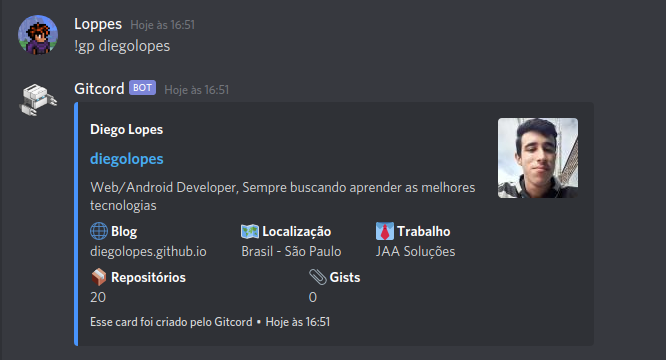
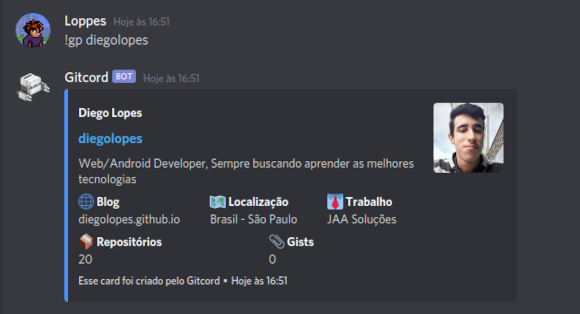
📝 readme and example image updated

diff --git a/README.md b/README.md
@@ -22,7 +22,7 @@
 Busca as informações do usuário passado por prarâmetro e as manda
 em uma mensagem elegante. Exemplo:
 
-<img src="assets/images/example.png" alt="Exemplo de comando" width="220">
+<img src="assets/images/example.png" alt="Exemplo de comando" width="520">
 
 
   
